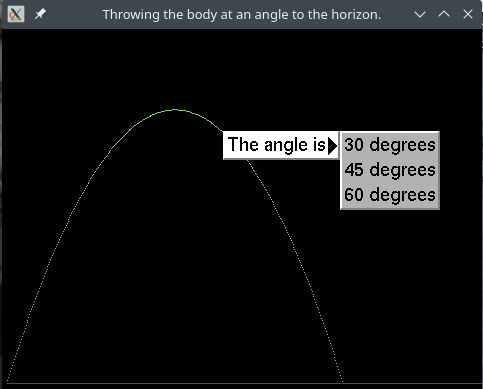
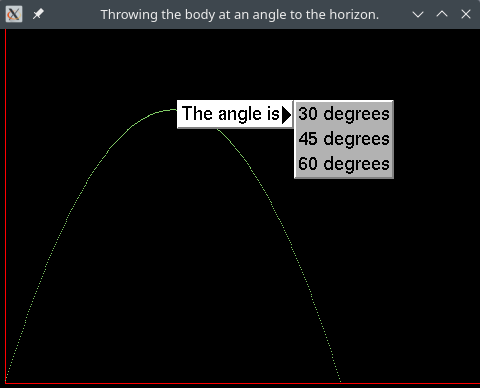
Исправлена ошибка, из-за которой на графике не отображалась ось Y. Все затронутые изненениями скришоты - заменены. (#6)

diff --git a/L3/Part1/src/Main.cpp b/L3/Part1/src/Main.cpp
@@ -11,13 +11,13 @@ void RenderScene() {
   glClear(GL_COLOR_BUFFER_BIT);
   glColor3f(1.0, 0.0, 0.0);
   glBegin(GL_LINES);
-    glVertex2f(0.0, 0.0);
-    glVertex2f(cx,  0.0);
+    glVertex2f(0.001, 0.001);
+    glVertex2f(cx, 0.001);
   glEnd();
 
   glBegin(GL_LINES);
-    glVertex2f(0.0, 0.0);
-    glVertex2f(0.0,  cy);
+    glVertex2f(0.001, 0.001);
+    glVertex2f(0.001, cy);
   glEnd();
 
   glColor3f(0.5, 0.8, 0.4);
